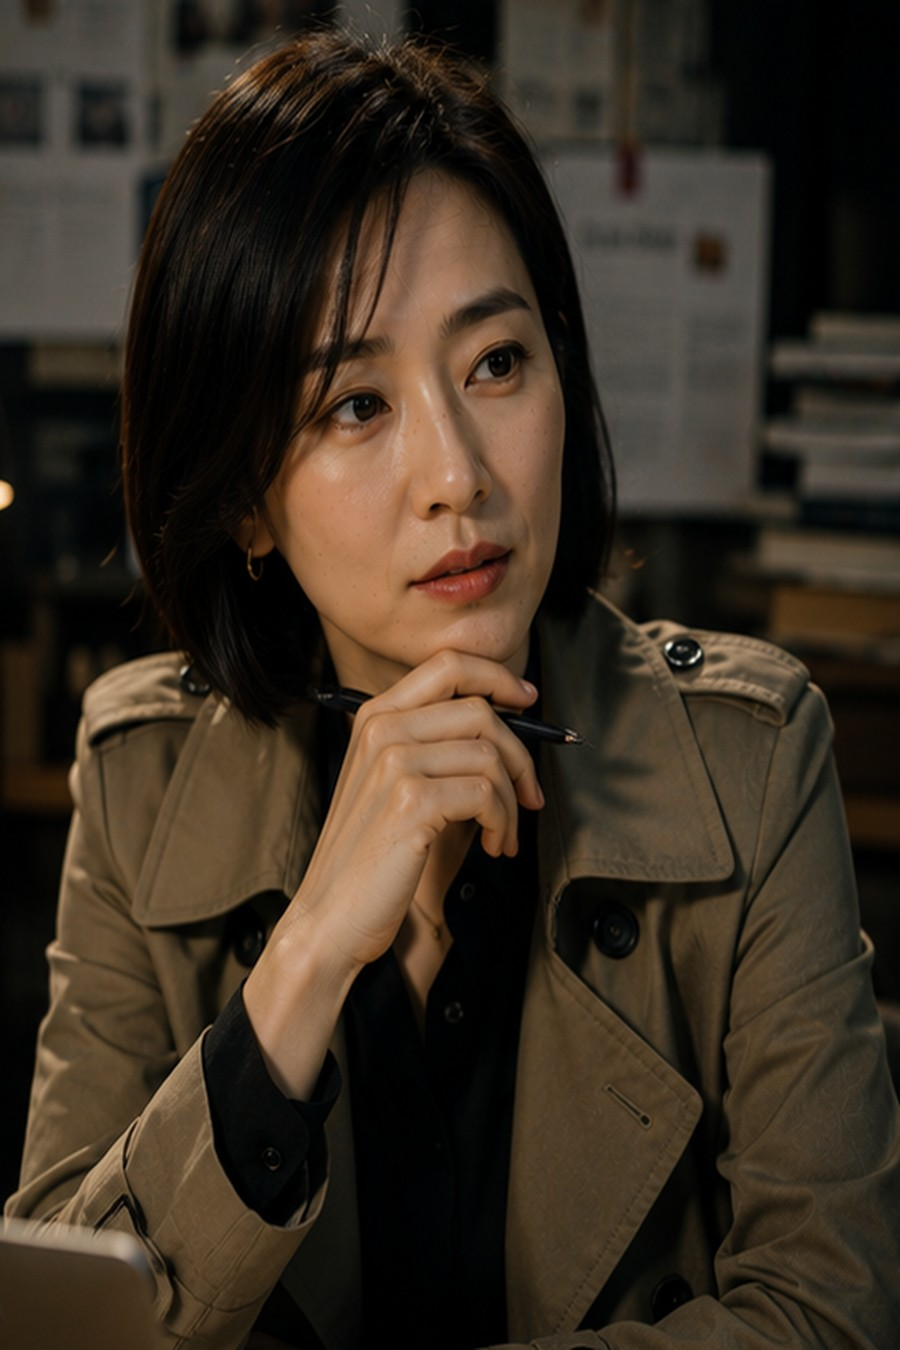
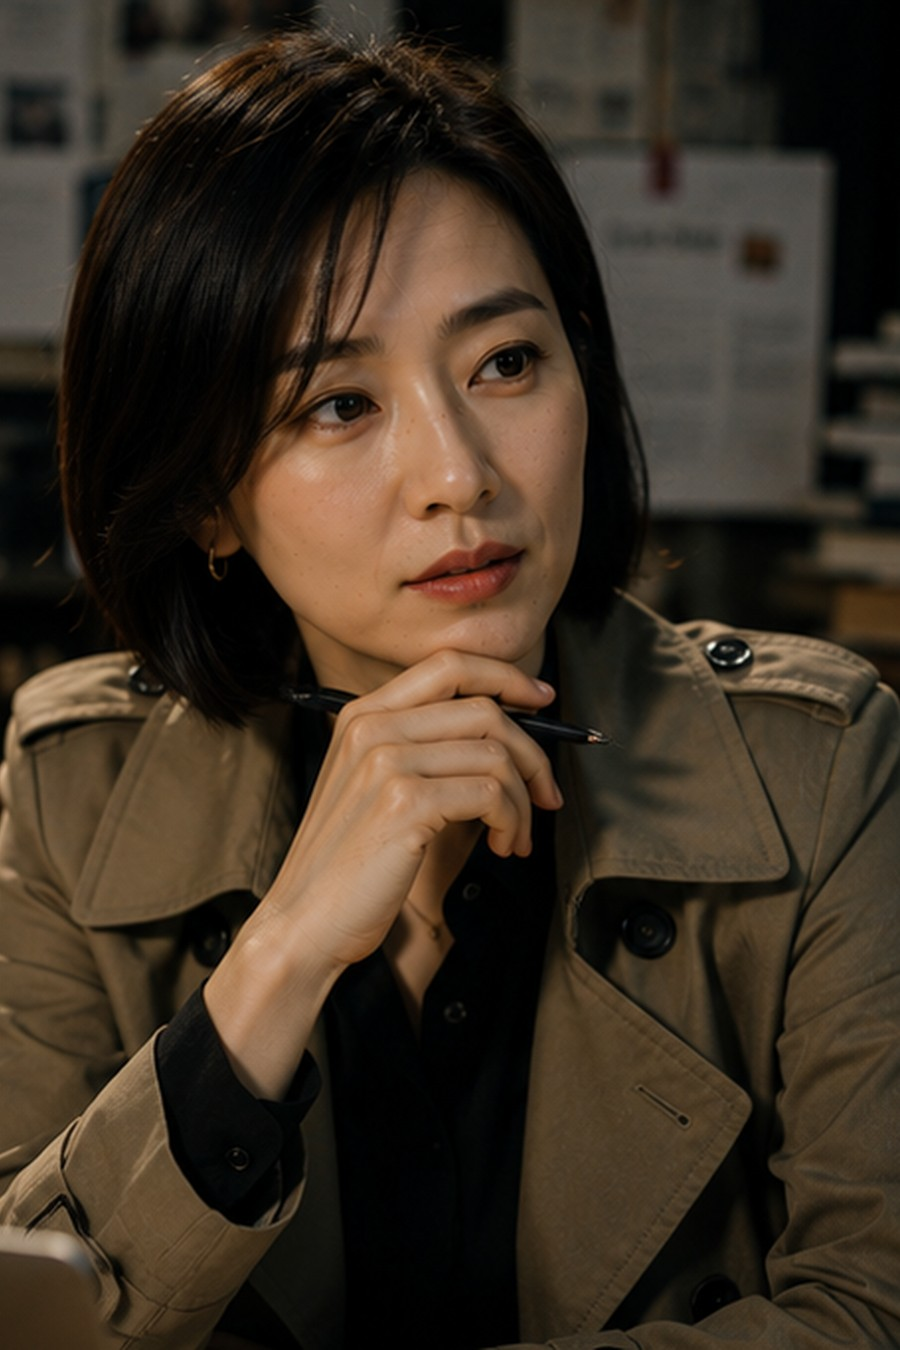
Fix realtime: drop unsupported Cherry voice (silent-call bug), clean leading junk from subtitle stream; re-crop damei/sujizhe portraits (cover-crop, no stretch)

diff --git a/server/core/realtime/QwenRealtimeProxy.js b/server/core/realtime/QwenRealtimeProxy.js
@@ -20,8 +20,9 @@ import { assembleSystemPrompt } from '../prompt/PromptAssembler.js';
 import { MemoryStore } from '../memory/MemoryStore.js';
 
 // 千问实时音色：按性别 + 年龄分配（均已实测在 qwen3.5-omni-flash-realtime 上可用）。
-// 成熟/年长角色用 Harvey(男)/Katerina(女)；年轻女声在 Cherry/Tina/Serena 间按角色区分，避免都一个声音。
-const YOUNG_F = ['Cherry', 'Tina', 'Serena'];
+// 成熟/年长角色用 Harvey(男)/Katerina(女)；年轻女声在 Tina/Serena 间按角色区分，避免都一个声音。
+// ⚠ Cherry 在 flash 上报 "Voice 'Cherry' is not supported"（response 阶段 400 → 全程无声，像断线）——勿加回。
+const YOUNG_F = ['Tina', 'Serena'];
 const hashIdx = (s, n) => { let h = 0; for (let i = 0; i < (s || '').length; i++) h = (h * 31 + s.charCodeAt(i)) >>> 0; return h % n; };
 const VOICE_FOR = (companion) => {
   if (process.env.QWEN_VOICE) return process.env.QWEN_VOICE; // 测试用：固定音色覆盖
@@ -70,6 +71,7 @@ function bridge(client, url) {
   const qwen = new WebSocket(qUrl, { headers: { Authorization: 'Bearer ' + config.qwen.apiKey } });
 
   let qOpen = false;
+  let replyStart = true; // 每条回复开头态：千问流式字幕常吞首音节，剩下的标点(如"，")不该当开头显示
   const toQwen = (o) => { if (qOpen && qwen.readyState === WebSocket.OPEN) qwen.send(JSON.stringify(o)); };
 
   console.log('[realtime] bridge start companion=' + companionId + ' → ' + qUrl);
@@ -114,14 +116,21 @@ function bridge(client, url) {
       case 'conversation.item.input_audio_transcription.completed':
         if (m.transcript) send(client, { type: 'user_transcript', text: m.transcript });
         break;
-      case 'response.audio_transcript.delta':
-        if (m.delta) send(client, { type: 'assistant_delta', text: m.delta });
+      case 'response.audio_transcript.delta': {
+        let text = m.delta || '';
+        if (replyStart && text) {
+          text = text.replace(/^[^\p{Script=Han}A-Za-z0-9]+/u, ''); // 开头只允许汉字/字母/数字：吞首音节残留的标点、杂符(>、》…)全清
+          if (text) replyStart = false; // 出现第一个真实字符后恢复原样透传
+        }
+        if (text) send(client, { type: 'assistant_delta', text });
+        break;
+      }
+      case 'response.done':
+        replyStart = true;
+        send(client, { type: 'assistant_done' });
         break;
       case 'response.audio.delta':
         if (m.delta) send(client, { type: 'assistant_audio', data: m.delta });
-        break;
-      case 'response.done':
-        send(client, { type: 'assistant_done' });
         break;
       case 'error':
         send(client, { type: 'error', message: (m.error && m.error.message) || 'qwen error' });

diff --git a/scripts/test-proxy.js b/scripts/test-proxy.js
@@ -4,7 +4,8 @@ import { readFileSync } from 'node:fs';
 import { resolve } from 'node:path';
 
 const pcm = readFileSync(resolve(process.cwd(), '.tmpaudio/utt.pcm'));
-const ws = new WebSocket('ws://localhost:5173/ws/realtime?companionId=coworker-coco&userId=demo-user');
+const cid = process.argv[2] || 'coworker-coco'; // 可传角色id: node scripts/test-proxy.js streamer-damei
+const ws = new WebSocket('ws://localhost:5173/ws/realtime?companionId=' + cid + '&userId=demo-user');
 const send = (o) => ws.send(JSON.stringify(o));
 const t0 = Date.now();
 let audioBytes = 0, deltas = '', userT = '', firstAudio = 0, got = {};
